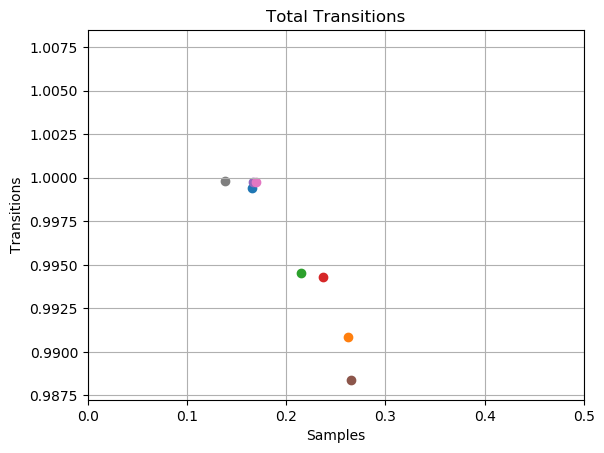
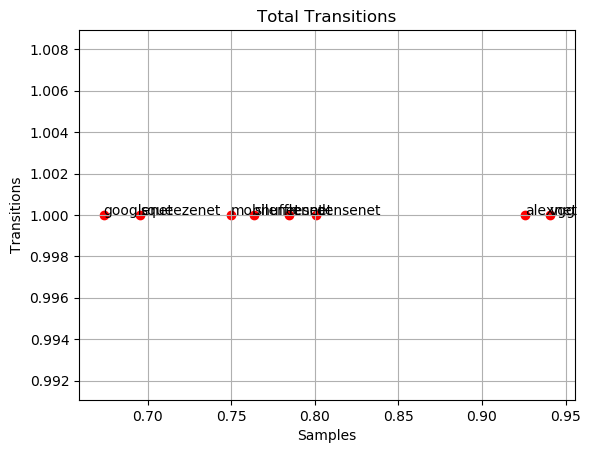
decoder passing

diff --git a/lib/graph.py b/lib/graph.py
@@ -201,20 +201,20 @@ def plot_sa_cr(metric_paths, output_path, encoding_scheme="rle_dsam", show_plot=
         with open(metric_paths[network],"r") as f:
             metrics[network] = json.load(f)
     # outputs
-    #baseline = { network: [0,0] for network in metrics }
-    encoded  = { network: [0,0] for network in metrics } 
+    encoded = { network: [0,0] for network in metrics }
     # iterate over networks
     for network in metrics:
         # get average switching activity
         average_sa = _get_average_metric(metrics[network], "average_sa")
-        encoded[network][0]  = average_sa[encoding_scheme]
+        encoded[network][0]  = average_sa[encoding_scheme]/average_sa["baseline"]
         # get compression ratio
         total_samples = _get_total_samples(metrics[network])
-        encoded[network][1] = total_samples["baseline"]/total_samples[encoding_scheme]
+        encoded[network][1] = total_samples[encoding_scheme]/total_samples["baseline"]
     # plot for each network
     for network in metrics:
-        plt.scatter([encoded[network][0]],[encoded[network][1]])
-    plt.xlim([0,0.5])
+        plt.scatter([encoded[network][0]],[encoded[network][1]], c='r')
+        plt.text(encoded[network][0], encoded[network][1], network )
+    #plt.xlim([0,1])
     #plt.ylim([0,1])
     #plt.yscale("log")
     plt.title("Total Transitions")

diff --git a/scripts/graph_featuremap.py b/scripts/graph_featuremap.py
@@ -31,7 +31,7 @@ if __name__ == "__main__":
             "squeezenet": "outputs/distiller_squeezenet1_0_8b/output_metrics.json",
             "vgg"       : "outputs/distiller_vgg11_8b/output_metrics.json",
     }
-    lib.graph.plot_sa_cr(metric_paths, "outputs/sa_cr.png", encoding_scheme="rle_dsam", show_plot=True)
+    lib.graph.plot_sa_cr(metric_paths, "outputs/sa_cr.png", encoding_scheme="dsam", show_plot=True)
 
     """
     # plot transitions per layer
